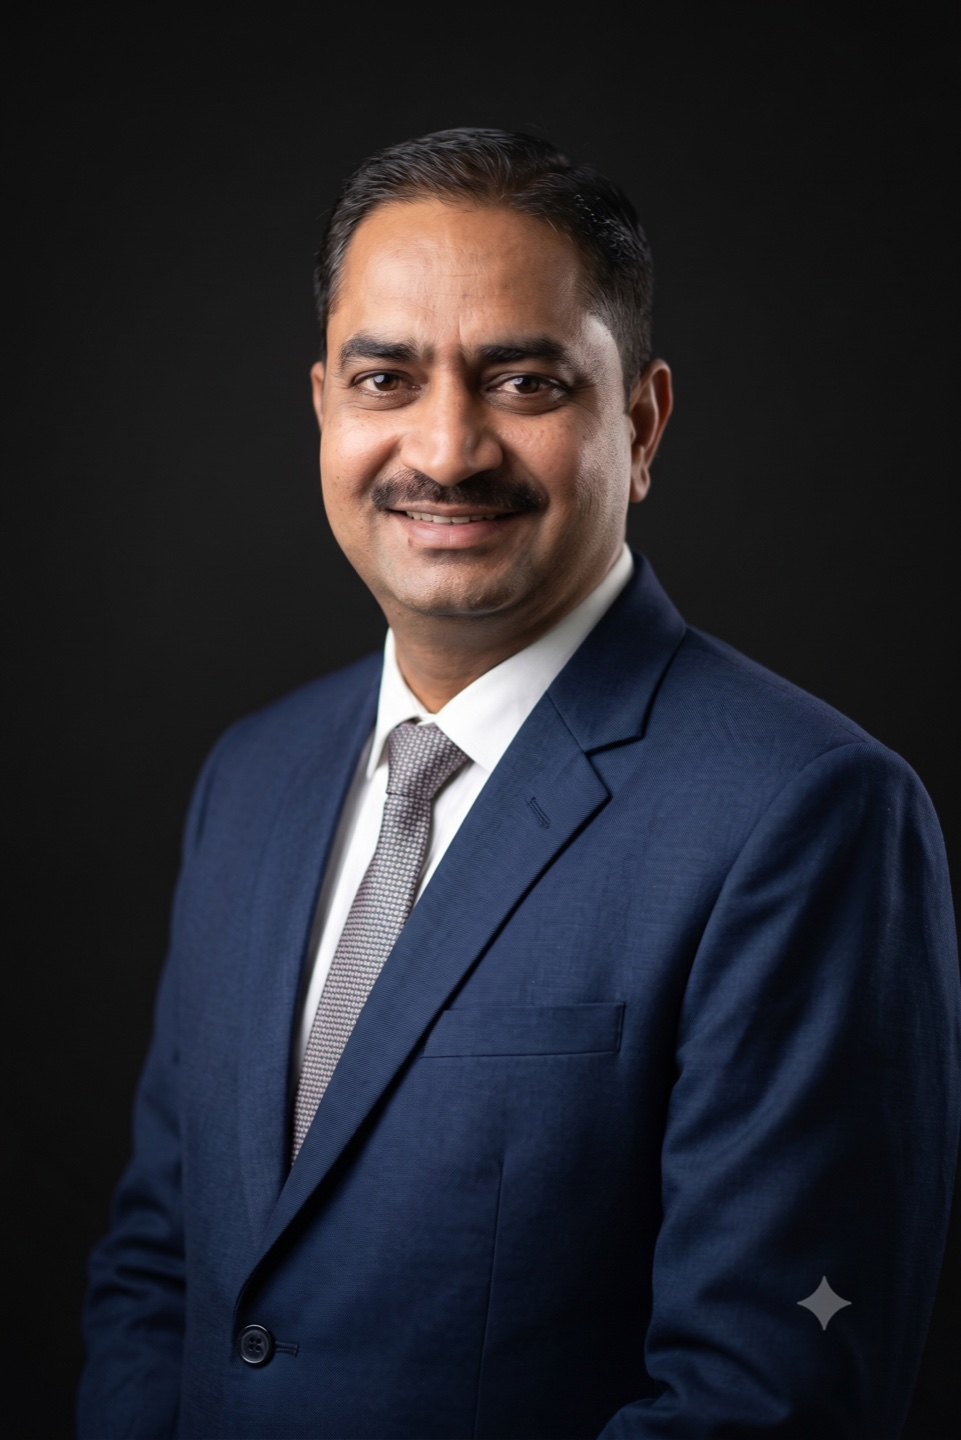
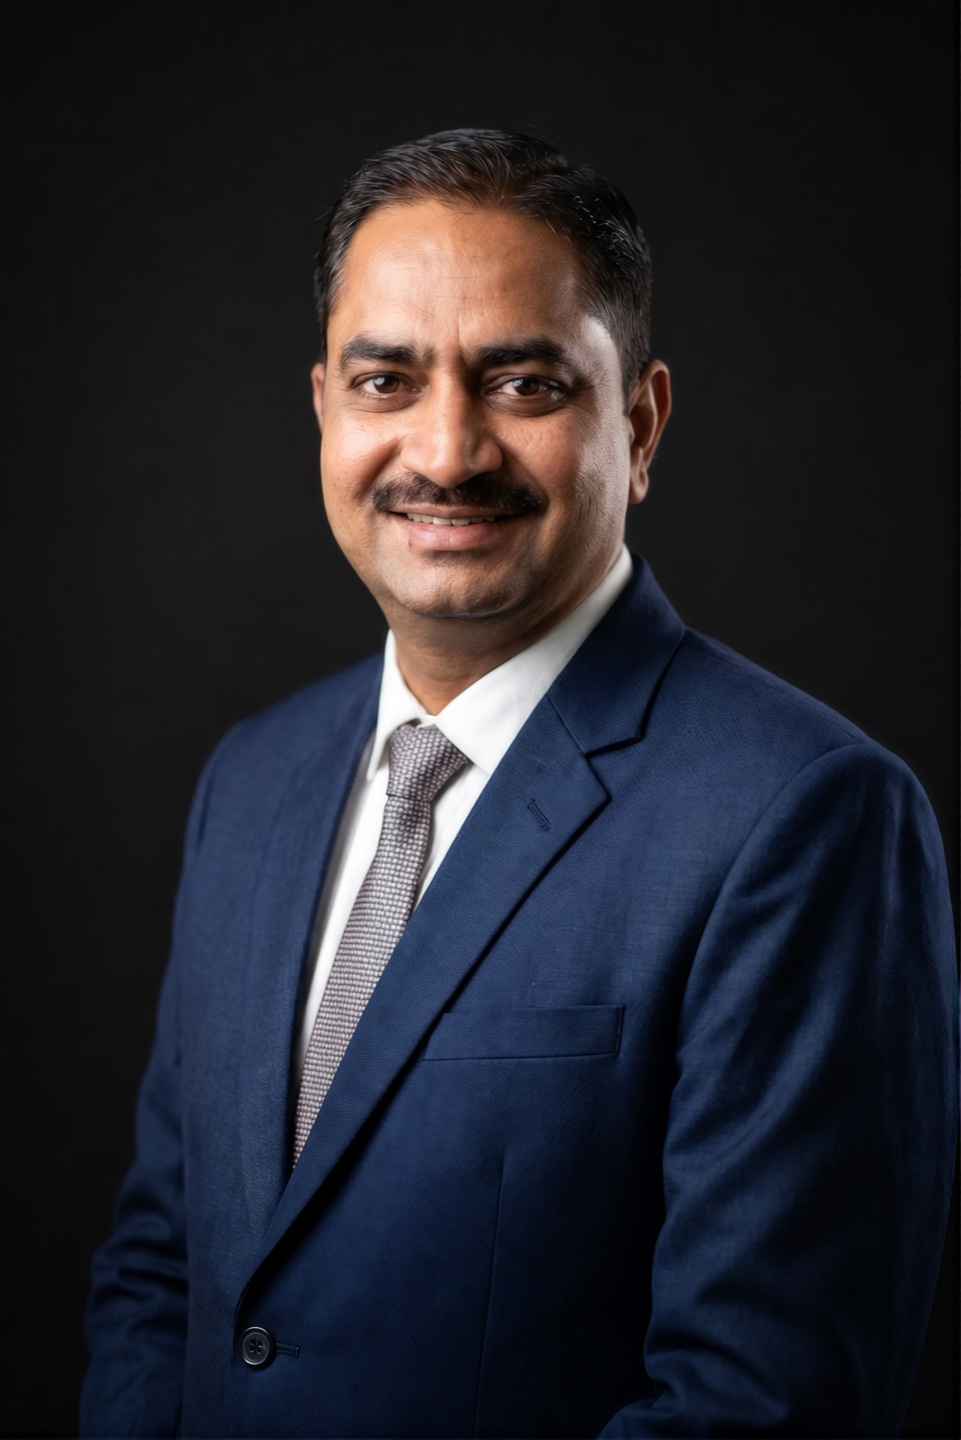
feat(login): Integrate both founders (Madanlal T Suthar & Jagdish Suthar) with seamless sliding and optimized portraits

diff --git a/src/pages/LoginPage.jsx b/src/pages/LoginPage.jsx
@@ -3,13 +3,22 @@ import { useNavigate } from 'react-router-dom';
 import { loginInit, loginVerify2FA } from '../utils/auth';
 import { getFounderSlides } from '../utils/storage';
 
-const STATIC_FOUNDER_SLIDE = {
-  name: 'MADANLAL T SUTHAR',
-  role: 'FOUNDER',
-  company: 'MTS Decor',
-  quote: 'True quality starts where no one looks—in the concrete, framing, and waterproofing—long before the marble is laid or the lighting is installed.',
-  imageUrl: '/founder_madanlal.jpg',
-};
+const STATIC_FOUNDER_SLIDES = [
+  {
+    name: 'MADANLAL T SUTHAR',
+    role: 'FOUNDER',
+    company: 'MTS Decor',
+    quote: 'True quality starts where no one looks—in the concrete, framing, and waterproofing—long before the marble is laid or the lighting is installed.',
+    imageUrl: '/founder_madanlal.jpg',
+  },
+  {
+    name: 'JAGDISH SUTHAR',
+    role: 'FOUNDER',
+    company: 'MTS Decor',
+    quote: 'Every millimeter counts on site. Master craftsmanship is not just what you build, but the precision, dedication, and integrity you build it with.',
+    imageUrl: '/founder_jagdish.jpg',
+  }
+];
 
 export default function LoginPage() {
   const navigate = useNavigate();
@@ -27,18 +36,18 @@ export default function LoginPage() {
   const [twoFAData, setTwoFAData] = useState(null);
   const [otpCode, setOtpCode] = useState('');
 
-  // Permanent Static Founder Slide (Never disappears on refresh)
+  // Permanent Static Founder Slides for Both Founders (Always visible, never disappears on refresh)
   const [slides, setSlides] = useState(() => {
     try {
       const cached = localStorage.getItem('MTS_FOUNDER_SLIDES_CACHE');
       const parsed = cached ? JSON.parse(cached) : null;
       if (Array.isArray(parsed) && parsed.length > 0) return parsed;
     } catch {}
-    return [STATIC_FOUNDER_SLIDE];
+    return STATIC_FOUNDER_SLIDES;
   });
   const [testimonialIdx, setTestimonialIdx] = useState(0);
 
-  // Load founder slides uploaded by admin from MongoDB Atlas (enhances or updates static slide)
+  // Load founder slides uploaded by admin from MongoDB Atlas
   useEffect(() => {
     getFounderSlides()
       .then(data => {
@@ -48,11 +57,11 @@ export default function LoginPage() {
             localStorage.setItem('MTS_FOUNDER_SLIDES_CACHE', JSON.stringify(data));
           } catch {}
         } else {
-          setSlides([STATIC_FOUNDER_SLIDE]);
+          setSlides(STATIC_FOUNDER_SLIDES);
         }
       })
       .catch(() => {
-        setSlides([STATIC_FOUNDER_SLIDE]);
+        setSlides(STATIC_FOUNDER_SLIDES);
       });
   }, []);
 
